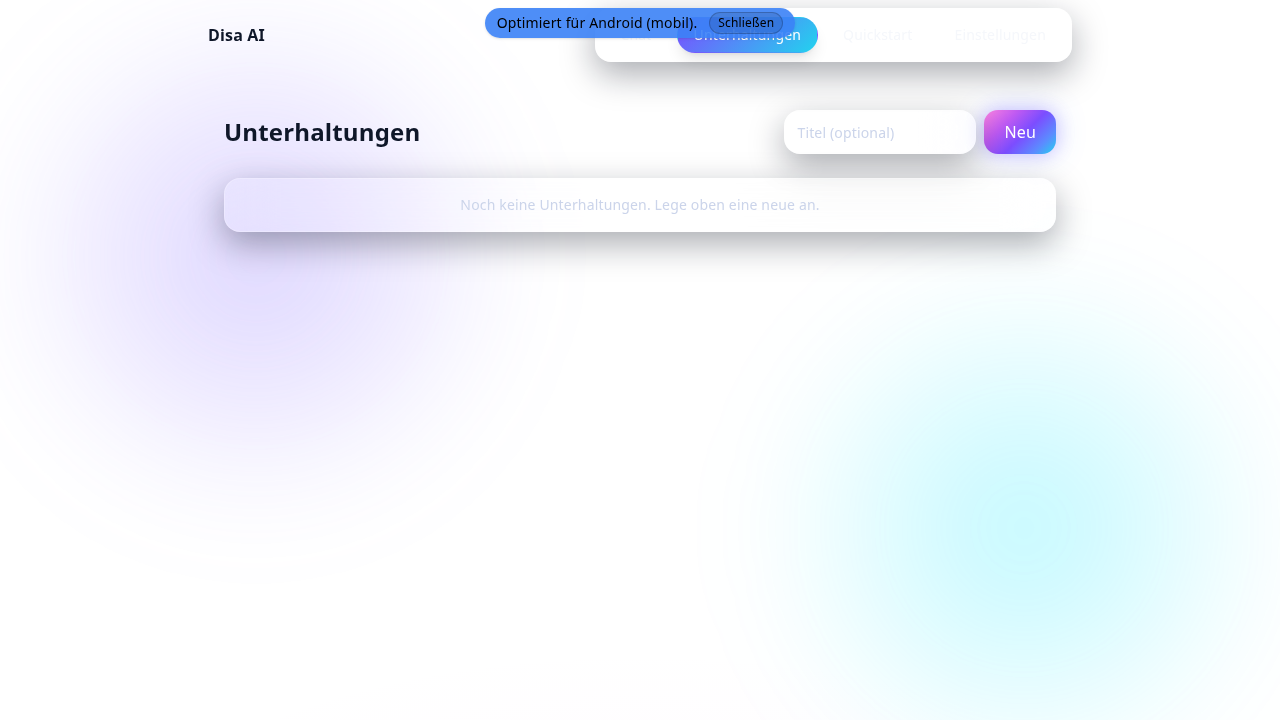
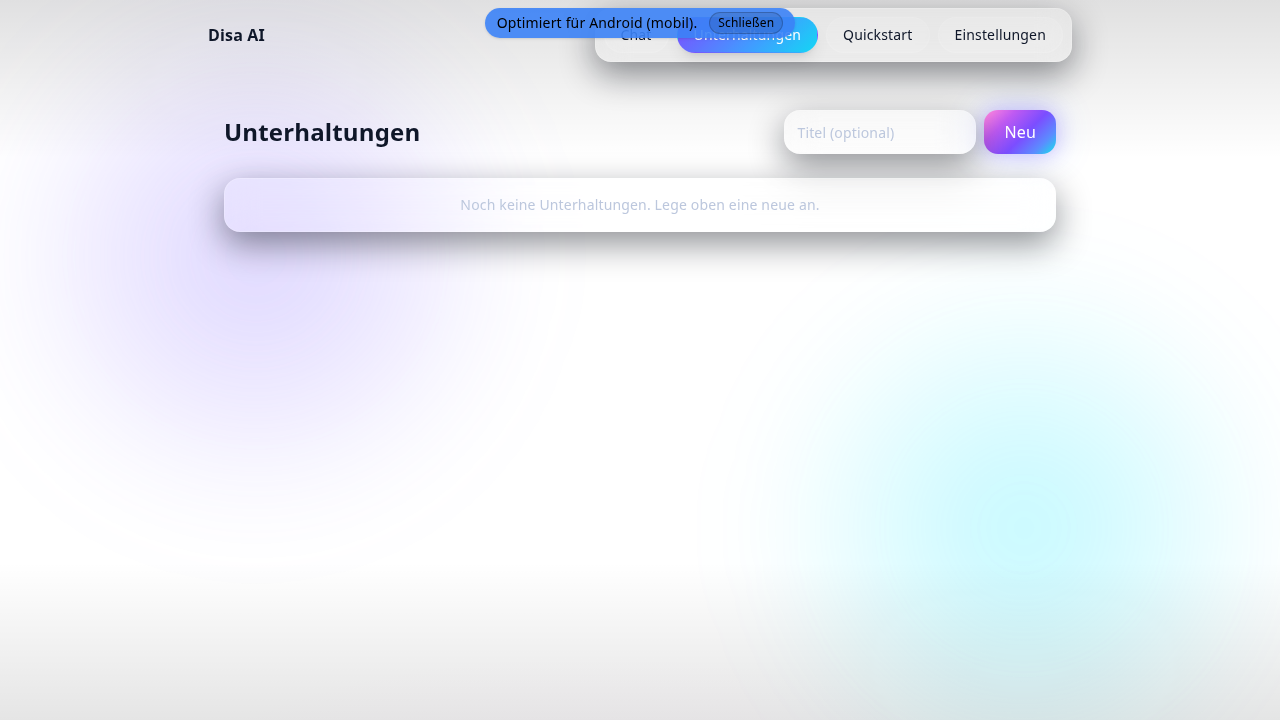
ui +

Changed region(s): [[0.0, 0.0, 1.0, 0.1222], [0.0, 0.9778, 1.0, 1.0]]

diff --git a/src/styles/theme.css b/src/styles/theme.css
@@ -175,7 +175,7 @@
 
   /* Compact tabs */
   .tab {
-    @apply hover:bg-white/8 inline-flex items-center gap-2 rounded-full border border-white/10 bg-white/5 px-4 text-sm backdrop-blur-md transition-colors;
+    @apply inline-flex items-center gap-2 rounded-full border border-white/10 bg-white/5 px-4 text-sm backdrop-blur-md transition-colors hover:bg-white/10;
     min-height: 36px;
   }
   .tab--active {

diff --git a/playwright.config.ts b/playwright.config.ts
@@ -12,7 +12,7 @@ export default defineConfig({
   },
   outputDir: "test-artifacts",
   webServer: {
-    command: "npx vite preview --port 4173 --strictPort",
+    command: "npm run build && npm run preview",
     port: 4173,
     reuseExistingServer: !process.env.CI,
     timeout: 120_000,
